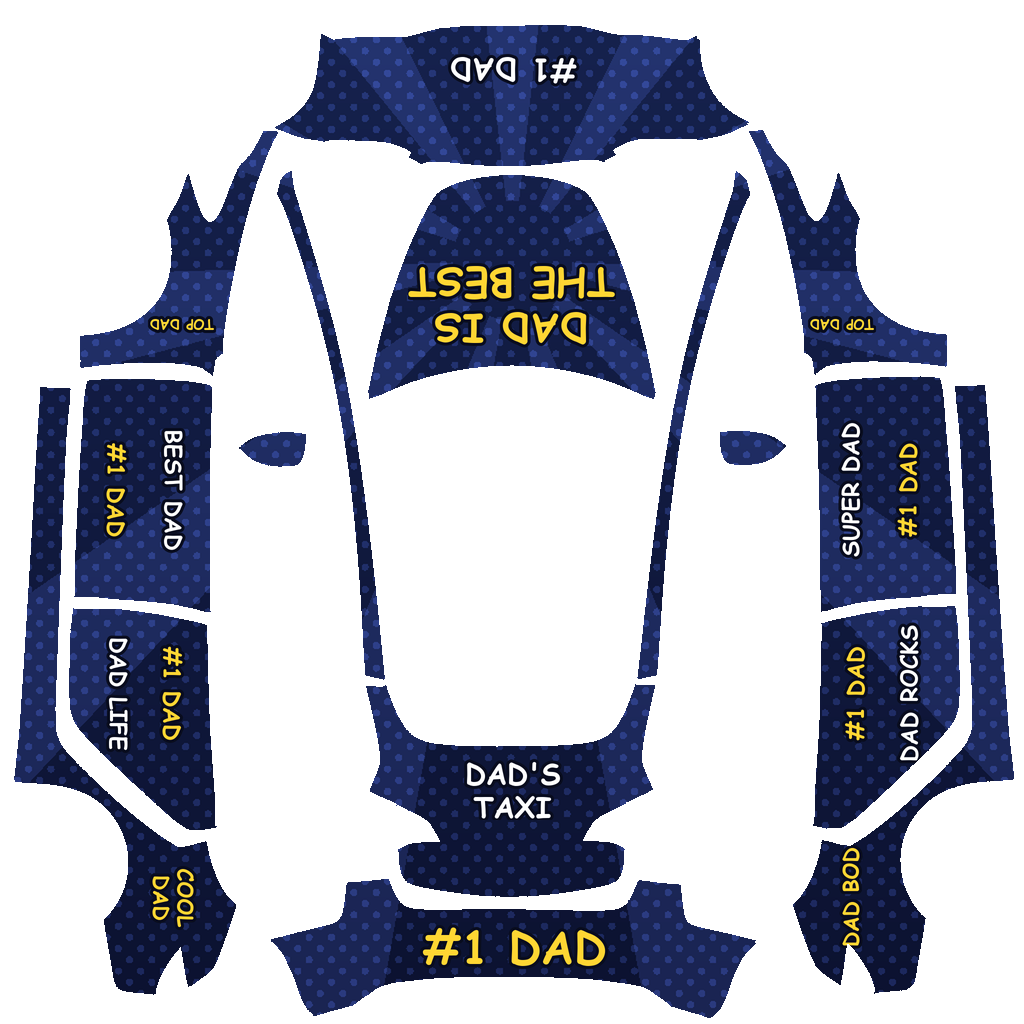
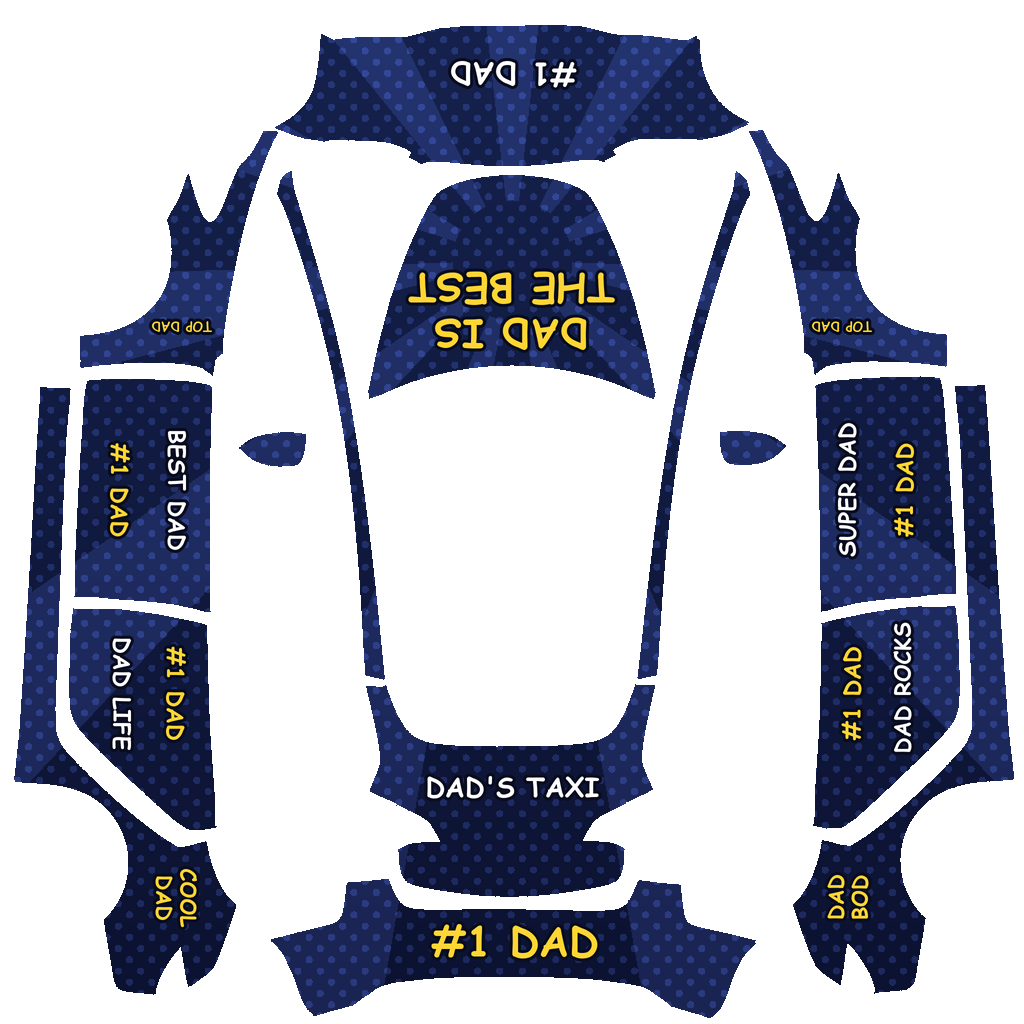
new

diff --git a/model3/wraps/README.md b/model3/wraps/README.md
@@ -12,6 +12,9 @@ PNGs into the `Wraps` folder on a USB drive, or upload them from the mobile app
 <a href="Lava_Cracks.png"><img src="Lava_Cracks.png" width="150"/></a>
 <a href="Monarch_Wings.png"><img src="Monarch_Wings.png" width="150"/></a>
 <a href="Marble_Gold.png"><img src="Marble_Gold.png" width="150"/></a>
+<a href="Far_Er_Sej.png"><img src="Far_Er_Sej.png" width="150"/></a>
+<a href="Black_Flames.png"><img src="Black_Flames.png" width="150"/></a>
+<a href="Cartoon_Person.png"><img src="Cartoon_Person.png" width="150"/></a>
 </p>
 
 | Wrap | What it does on the car |
@@ -21,6 +24,9 @@ PNGs into the `Wraps` folder on a USB drive, or upload them from the mobile app
 | **Lava_Cracks** | Cooling volcanic rock with molten orange lava rivers running down the centerline and flanks. |
 | **Monarch_Wings** | Tangerine butterfly-wing scales, black veins, and white edge spots wrapping the body. |
 | **Marble_Gold** | Cream Calacatta marble with sweeping metallic gold veins from nose to tail. |
+| **Far_Er_Sej** | Danish-flag red with "FAR ER SEJ" on the hood, front bumper, trunk, rear bumper, and doors. |
+| **Black_Flames** | Gloss black with hot-rod flames licking back from the nose and down both flanks. |
+| **Cartoon_Person** | Peach skin all over: eyes on the hood, a grin across the front bumper, arms down the sides, a butt on the rear. |
 
 ---
 
